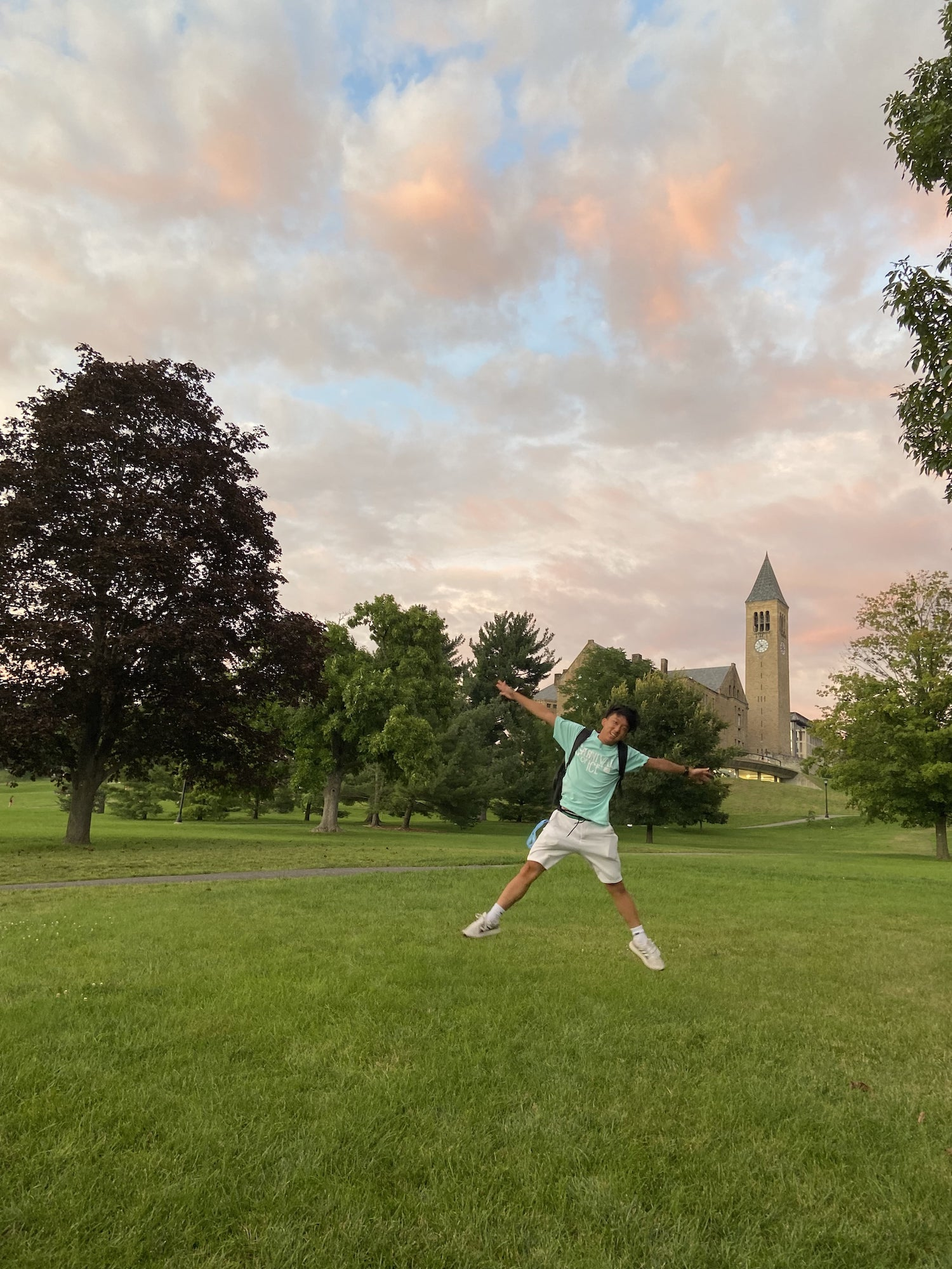
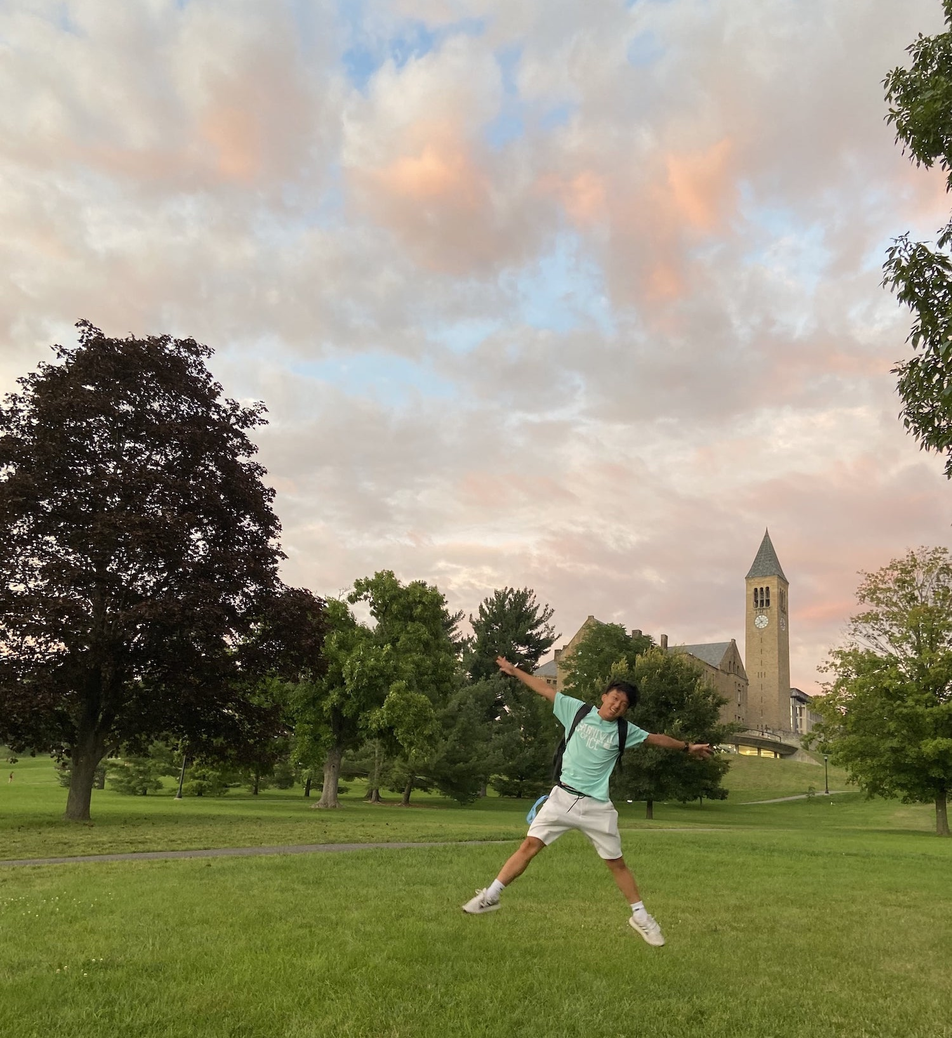
Fixes vertical resizing, updates header, plugin changes

diff --git a/src/components/MovingHeader.js b/src/components/MovingHeader.js
@@ -13,27 +13,27 @@ const navData = [
   // { title: "blog", link: "/#blog" },
 ];
 
-const Header = () => {
-  // const [scroll, setScroll] = useState(0);
-  // const showing = useRef(true);
+const MovingHeader = () => {
+  const [scroll, setScroll] = useState(0);
+  const showing = useRef(true);
 
-  // useEffect(() => {
-  //   const handleScroll = () => {
-  //     if (window.scrollY > scroll && showing.current) {
-  //       showing.current = false;
-  //     }
-  //     if ((window.scrollY < scroll && !showing.current) || window.scrollY < 50) {
-  //       showing.current = true;
-  //     }
-  //     setScroll(window.scrollY);
-  //   };
-  //   window.addEventListener("scroll", handleScroll, { passive: true });
+  useEffect(() => {
+    const handleScroll = () => {
+      if (window.scrollY > scroll && showing.current) {
+        showing.current = false;
+      }
+      if ((window.scrollY < scroll && !showing.current) || window.scrollY < 50) {
+        showing.current = true;
+      }
+      setScroll(window.scrollY);
+    };
+    window.addEventListener("scroll", handleScroll, { passive: true });
 
-  //   return () => window.removeEventListener("scroll", handleScroll);
-  // }, [scroll]);
+    return () => window.removeEventListener("scroll", handleScroll);
+  }, [scroll]);
 
   return (
-    <Nav>
+    <Nav show={showing.current}>
       {/* <Bars /> */}
       <NavMenu>
         {navData.map((item, index) => (
@@ -50,17 +50,16 @@ const Header = () => {
 export default Header;
 
 const Nav = styled.nav`
-  ${'' /* position: relative; */}
   height: 75px;
   display: flex;
   justify-content: space-between;
   z-index: 999;
   background: var(--color-background);
-  ${'' /* position: fixed; */}
+  position: fixed;
   top: 0;
   left: 0;
   right: 0;
-  ${'' /* margin-top: ${(props) => (props.show ? "0px" : "-100px")}; */}
+  margin-top: ${(props) => (props.show ? "0px" : "-100px")};
   transition: margin-top 0.5s;
 `;
 
@@ -80,7 +79,7 @@ const Nav = styled.nav`
 
 // position absolute for dark mode toggle positioning
 const NavMenu = styled.div`
-  ${'' /* position: absolute; */}
+  position: absolute;
 
   display: flex;
   flex-direction: row;
@@ -101,6 +100,9 @@ const NavLink = styled(AnchorLink)`
   text-align: center;
   font-size: 24px;
   color: var(--color-text);
+  ${"" /* background: rgba(255, 229, 194, 0.5); */}
+  ${"" /* background: var(--color-background); */}
+  ${"" /* box-shadow: 1px 2px 2px black; */}
 
   &:first-child {
     border-radius: 0 0 0 25px;
@@ -118,11 +120,23 @@ const NavLink = styled(AnchorLink)`
 // overflow visible important to avoid cutting off edges
 const NavToggle = styled(DarkToggle)`
   position: relative;
-  top: 33px;
-  left: -30px;
+  top: 30px;
+  left: 85%;
 
   overflow: visible !important;
 
   background: var(--color-background);
   border-radius: 5px;
+
+  @media screen and (max-width: 475px) {
+    top: 70px;
+    left: 47%;
+  }
+  ${"" /*So that the edges don't get cut off */}
+
+  ${
+    "" /* button {
+    overflow: visible !important;
+  } */
+  }
 `;

diff --git a/gatsby-config.js b/gatsby-config.js
@@ -1,9 +1,9 @@
 module.exports = {
   siteMetadata: {
     title: `CJ Lee`,
-    titleTemplate: `%s · CJ Lee`,
+    titleTemplate: `CJ Lee | %s`,
     defaultTitle: `CJ Lee`,
-    description: `CJ Lee: Computer Science @ Cornell`,
+    description: `CJ Lee`,
     author: `@cjlee`,
     siteUrl: `https://cjl.ee`,
   },
@@ -19,18 +19,18 @@ module.exports = {
         path: `${__dirname}/blog`,
       },
     },
-    {
-      resolve: `gatsby-plugin-manifest`,
-      options: {
-        name: `CJ Lee | Personal Site`,
-        short_name: `CJ Lee`,
-        start_url: `/`,
-        background_color: ` FFF0DB`, //#7B1A28`,
-        theme_color: `FFF0DB`, //k#D4AF37`,
-        display: `standalone`,
-        icon: `static/logo.svg`, // This path is relative to the root of the site.
-      },
-    },
+    // {
+    //   resolve: `gatsby-plugin-manifest`,
+    //   options: {
+    //     name: `CJ Lee`,
+    //     short_name: `CJ Lee`,
+    //     start_url: `/`,
+    //     // background_color: ` FFF0DB`, //#7B1A28`,
+    //     theme_color: `FFF0DB`, //k#D4AF37`,
+    //     display: `standalone`,
+    //     icon: `static/logo.svg`, // This path is relative to the root of the site.
+    //   },
+    // },
 
     `gatsby-plugin-sharp`,
     `gatsby-remark-images`,

diff --git a/src/components/home/Hero.js b/src/components/home/Hero.js
@@ -15,10 +15,8 @@ const titleOptions = {
     "Korean-American",
     "Computador",
     "Oklahomon",
-    "Red Big Cornellian",
     "Cookie Lover",
     "Milk Aficionado",
-    "Based around NYC",
     "Like and Bookmark!",
     "or don't.... :(",
     "Have a great day!",
@@ -47,14 +45,14 @@ const Hero = ({ className }) => {
 export default Hero;
 
 const HContainer = styled.div`
-  height: 100vh;
+  min-height: max(550px, 100vh);
   display: flex;
   flex-direction: row;
   justify-content: center;
   text-align: center;
   align-items: center;
   width: min(100%,1400px);
-  margin:auto;
+  margin: -75px auto auto auto;
 
   @media screen and (max-width: 768px) {
     width: 100%;
@@ -80,7 +78,6 @@ const HColumn = styled.div`
 
 const HImage = styled.img`
   max-width: 75%;
-  height: auto;
 `;
 
 const HTitle = styled.h3`

diff --git a/src/components/layouts/HomeLayout.js b/src/components/layouts/HomeLayout.js
@@ -1,14 +1,12 @@
 import * as React from "react";
-
 import Header from "../Header";
-// import { ThemeProvider } from "./ThemeContext";
-// import GlobalStyle from "./GlobalStyle";
+
 
 const HomeLayout = ({ children }) => {
   return (
     // <ThemeProvider>
     <>
-      <Header></Header>
+      <Header />
       <main>{children}</main>
     </>
     // </ThemeProvider>

diff --git a/src/components/Seo.js b/src/components/Seo.js
@@ -34,7 +34,7 @@ function Seo({ description, lang, meta, title }) {
         lang,
       }}
       title={title}
-      titleTemplate={defaultTitle ? `%s · ${defaultTitle}` : null}
+      titleTemplate={defaultTitle ? `${defaultTitle} | %s` : null}
       meta={[
         {
           name: `description`,

diff --git a/src/components/home/About.js b/src/components/home/About.js
@@ -107,7 +107,7 @@ const About = () => {
 export default About;
 
 const AboutContainer = styled.div`
-  height: 100vh;
+  min-height: 100vh;
   display: flex;
   flex-direction: column;
   justify-content: center;
